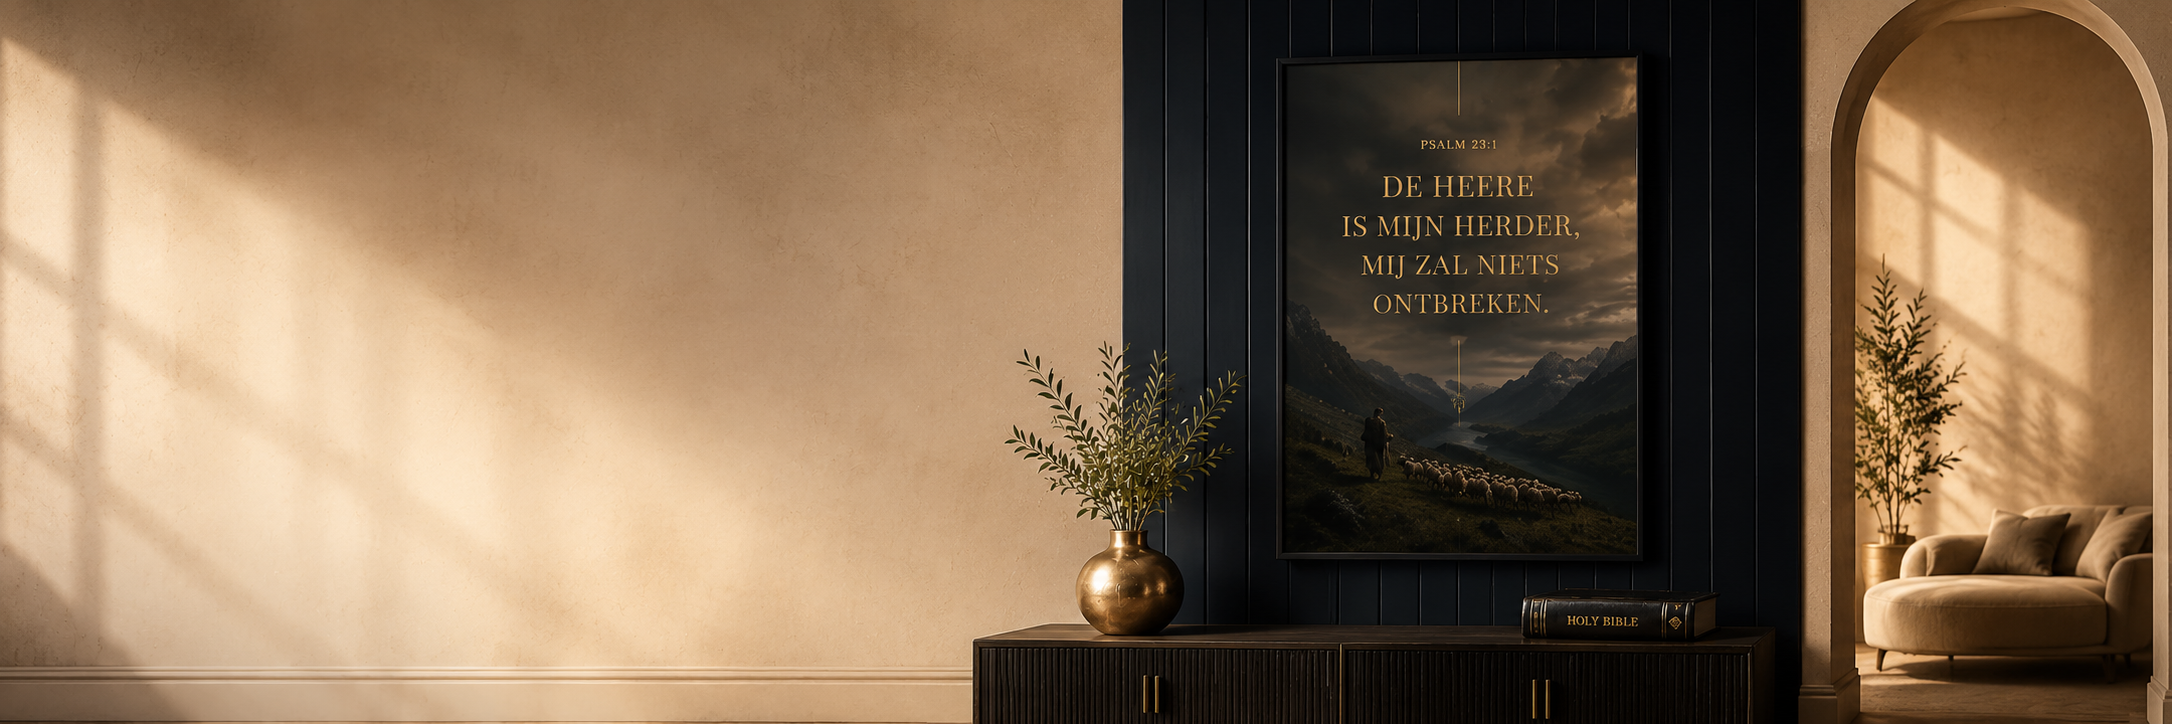
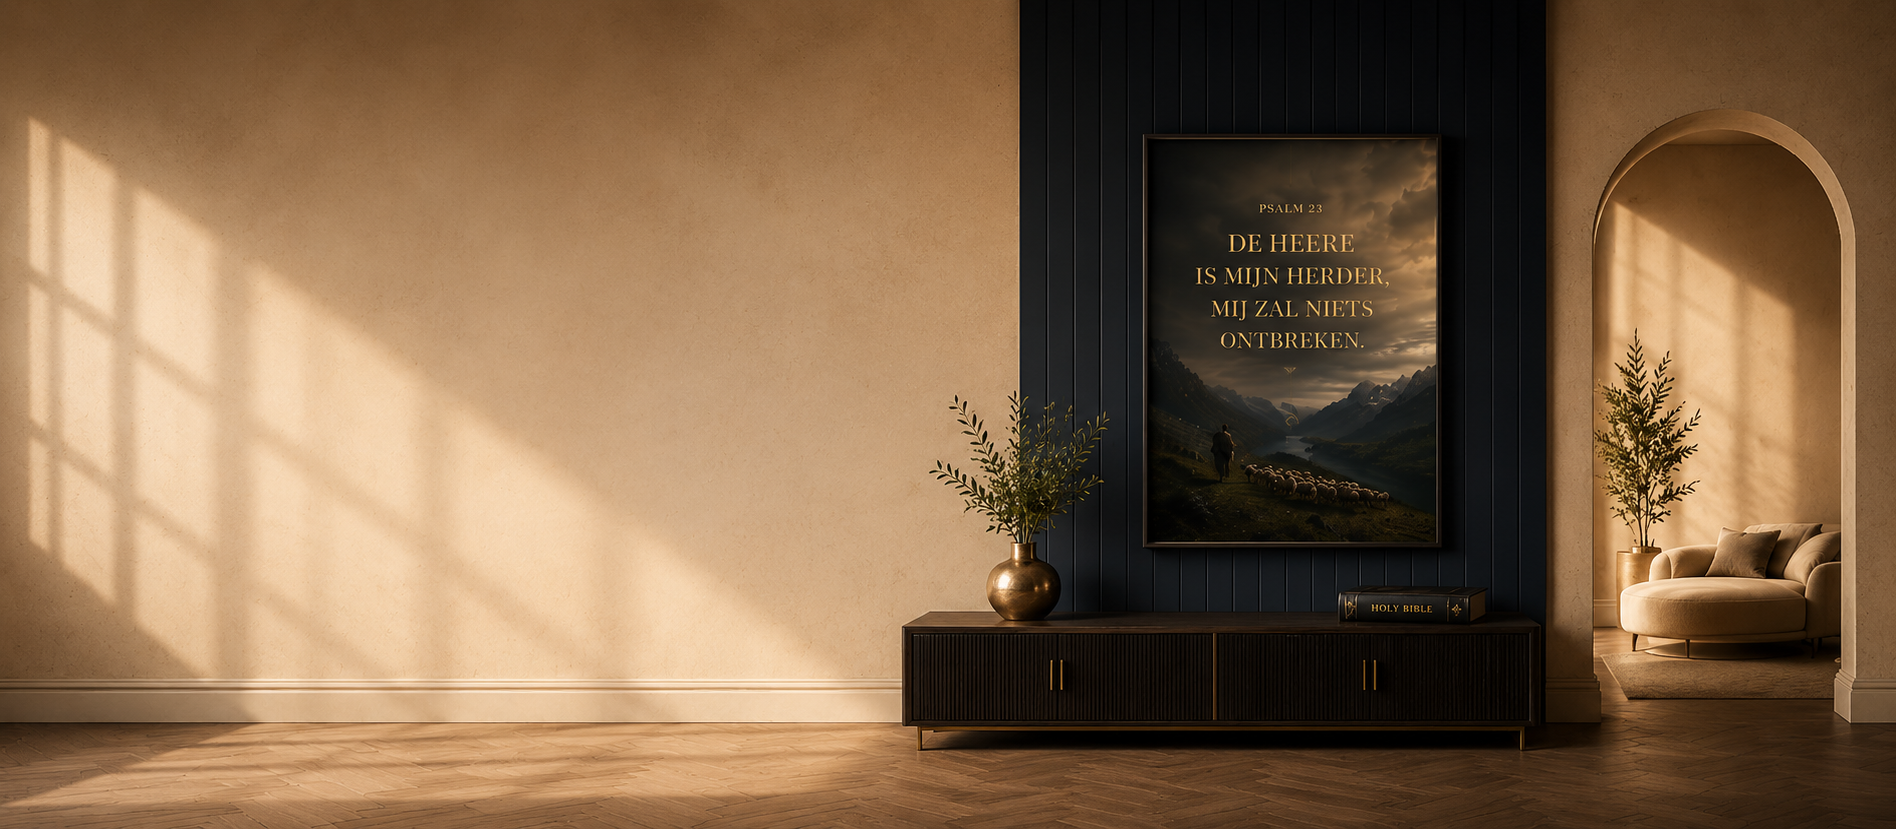
Hero: 1896x829 afbeelding + exact aspect-ratio, nul bijsnijden

diff --git a/src/components/Hero.tsx b/src/components/Hero.tsx
@@ -14,9 +14,8 @@ export default function Hero() {
       className="relative overflow-hidden flex flex-col"
       style={{
         paddingTop: 84,
-        aspectRatio: '2172 / 724',
-        minHeight: 560,
-        maxHeight: 900,
+        aspectRatio: '1896 / 829',
+        minHeight: 480,
       }}
     >
       {/* ── Background image as absolute layer ── */}